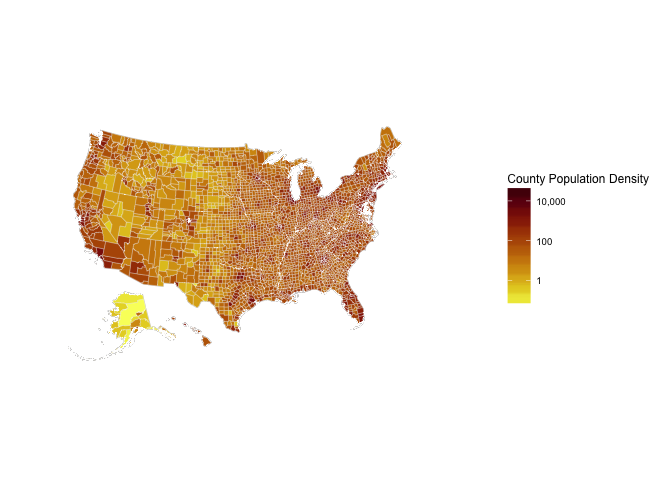
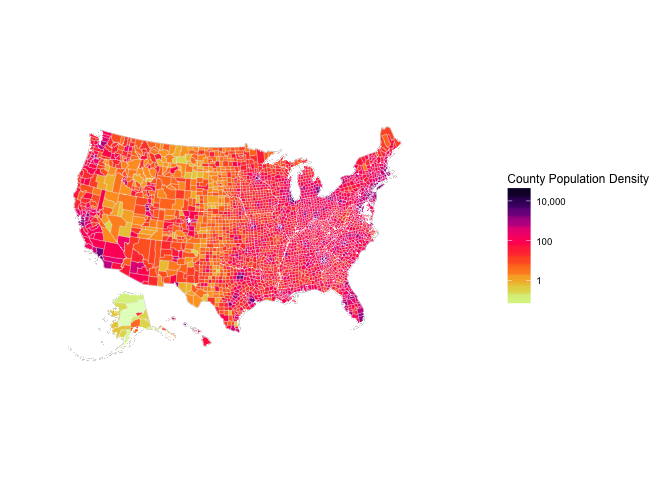
Better theme for the choropleth in README

Changed region(s): [[0.0938, 0.25, 0.5938, 0.7188], [0.75, 0.375, 0.8125, 0.6562], [0.2812, 0.6875, 0.3125, 0.7188]]

diff --git a/README.md b/README.md
@@ -182,7 +182,7 @@ gg_counties <- gg_counties +
            color="white", size=0.1)
 gg_counties +
   scale_fill_colormap("County Population Density", labels=comma, trans = 'log10',
-                      colormap = colormaps$oxygen, reverse = T, discrete = F)
+                      colormap = colormaps$cubehelix, reverse = T, discrete = F)
 ```
 
 ![](README-maps-2.png)
